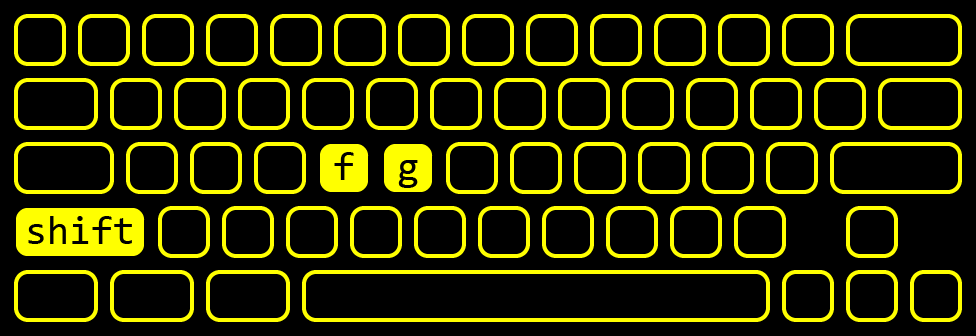
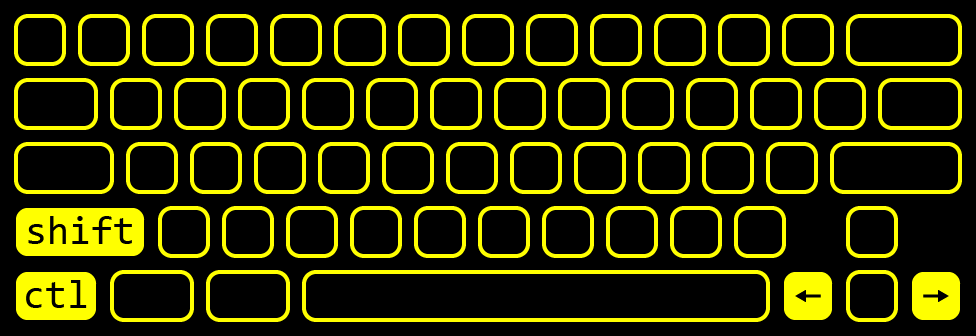
++

diff --git a/_layouts/home.html b/_layouts/home.html
@@ -38,6 +38,7 @@ layout: default
       </div>
       <div class="col-md-3 col-sm-12">
         <h1 id="setup" class="my-5">Setup</h1>
+        <p>Install and restart norns.</p>
         <p>Plug in a US-ANSI keyboard.</p>
         <p>You're ready.<p>
       </div>

diff --git a/collections/_lessons/lesson-increment-decrement.md b/collections/_lessons/lesson-increment-decrement.md
@@ -3,5 +3,5 @@ weight: 6
 topic: Increment / Decrement
 ymode: true
 image: keyboard-increment-decrement.png
-description: While in Y Mode, certain selected values can be incremented and decremented with _f_ and _g_. Pressing these keys while holding shift operates at a logical order of magnitude for the given context. For example, in the case of _shift_ + _g_ when a track is selected, all notes will be transposed up by 12 (an octave).
+description: Certain selected values can be incremented and decremented with _ctrl_ + _&larr;_ and _&rarr;_. Pressing these keys while holding _shift_ operates at a logical order of magnitude for the given context. For example, in the case of _shift_ + _&rarr;_ when a track is selected, all notes will be transposed up by 12 (an octave).
 ---

diff --git a/collections/_commands/synth.md b/collections/_commands/synth.md
@@ -2,10 +2,10 @@
 weight: 4.1
 name: Synth
 images: ["clade-synth.png"]
-signatures: ["_X_ synth;v;_VALUE_", "_X_ synth;voice;_VALUE_", "_X_ synth;c1;_VALUE_", "_X_ synth;c2;_VALUE_"]
-examples: ["1 synth;v;2", "1 synth;c1;99"]
+signatures: ["_X_ synth;v;_VALUE_", "_X_ synth;voice;_VALUE_", "_X_ synth;c1;_VALUE_", "_X_ synth;c2;_VALUE_", "synth;enc"]
+examples: ["1 synth;v;2", "1 synth;c1;99", "synth;enc"]
 category: mixer
-description: Set the track's synth voice and macro control levels.
+description: Set the track's synth voice and macro control levels. Use `synth;enc` to toggle takeover mode for macro controls with norns encoders 2 and 3.
 invocations: ["synth"]
-arguments: ["voice", "v", "c1", "c2"]
+arguments: ["voice", "v", "c1", "c2", "enc"]
 ---

diff --git a/collections/_lessons/lesson-y-mode-increment-decrement.md b/collections/_lessons/lesson-y-mode-increment-decrement.md
@@ -1,0 +1,7 @@
+---
+weight: 7
+topic: Increment / Decrement
+ymode: true
+image: keyboard-y-mode-increment-decrement.png
+description: While in Y Mode, certain selected values can be incremented and decremented with _f_ and _g_. Pressing these keys while holding _shift_ operates at a logical order of magnitude for the given context. For example, in the case of _shift_ + _g_ when a track is selected, all notes will be transposed up by 12 (an octave).
+---
